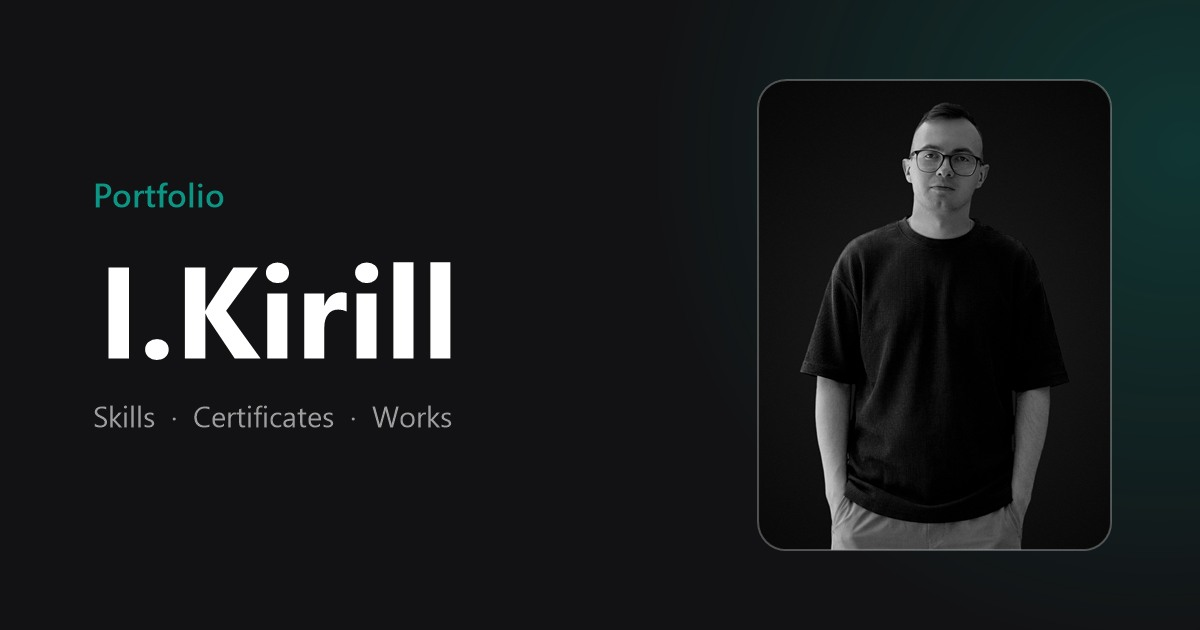
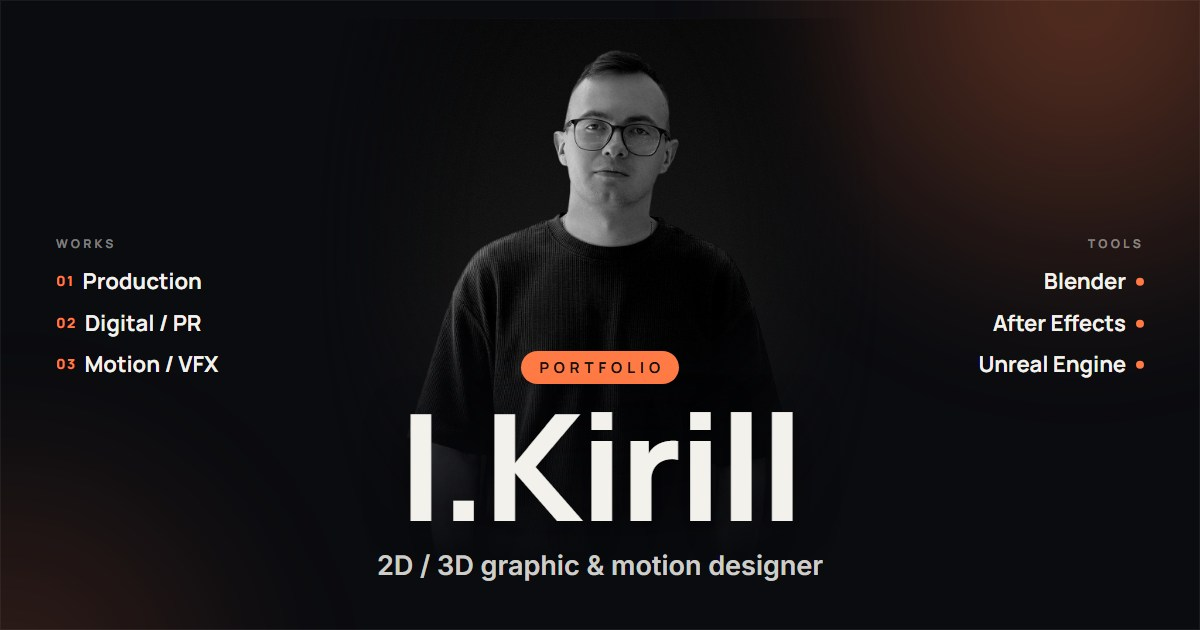
Redesign link preview image and fix duplicated preview title
- New og-image.jpg (1200x630, 67 KB) in the site palette: photo, name and role sit in the centre square, so square crops (WhatsApp, iMessage, thumbnails) keep them; works and tools fill the sides for wide previews
- og:site_name is now "I.Kirill" and og:title describes the role, so Telegram no longer shows the same title twice
- Updated descriptions, added og:image:type, and a ?v=2 query on the image URL so platforms fetch the new image

diff --git a/index.html b/index.html
@@ -4,7 +4,7 @@
     <meta charset="UTF-8" />
     <meta name="viewport" content="width=device-width, initial-scale=1.0" />
     <title>I.Kirill — Portfolio</title>
-    <meta name="description" content="Portfolio of Kirill Ivannikov (I.Kirill): skills, certificates and selected works in digital design, video, 3D and AI-assisted workflows." />
+    <meta name="description" content="Kirill Ivannikov (I.Kirill) — 2D / 3D graphic &amp; motion designer. Production, Digital / PR and Motion / VFX works: commercials, animation, 3D modeling and VFX." />
     <meta name="theme-color" content="#0b0c10" />
     <link rel="preconnect" href="https://fonts.googleapis.com" />
     <link rel="preconnect" href="https://fonts.gstatic.com" crossorigin />
@@ -13,19 +13,20 @@
     <link rel="canonical" href="https://kll7a.github.io/portfolio/" />
 
     <meta property="og:type" content="website" />
-    <meta property="og:site_name" content="I.Kirill — Portfolio" />
-    <meta property="og:title" content="I.Kirill — Portfolio" />
-    <meta property="og:description" content="Skills, certificates and selected works of Kirill Ivannikov: digital design, video, 3D and AI-assisted workflows." />
+    <meta property="og:site_name" content="I.Kirill" />
+    <meta property="og:title" content="Portfolio — 2D / 3D graphic &amp; motion designer" />
+    <meta property="og:description" content="Production, Digital / PR and Motion / VFX: commercials, 2D / 3D animation, 3D modeling and VFX." />
     <meta property="og:url" content="https://kll7a.github.io/portfolio/" />
-    <meta property="og:image" content="https://kll7a.github.io/portfolio/og-image.jpg" />
+    <meta property="og:image" content="https://kll7a.github.io/portfolio/og-image.jpg?v=2" />
+    <meta property="og:image:type" content="image/jpeg" />
     <meta property="og:image:width" content="1200" />
     <meta property="og:image:height" content="630" />
-    <meta property="og:image:alt" content="I.Kirill — Portfolio" />
+    <meta property="og:image:alt" content="I.Kirill — 2D / 3D graphic &amp; motion designer" />
 
     <meta name="twitter:card" content="summary_large_image" />
-    <meta name="twitter:title" content="I.Kirill — Portfolio" />
-    <meta name="twitter:description" content="Skills, certificates and selected works of Kirill Ivannikov." />
-    <meta name="twitter:image" content="https://kll7a.github.io/portfolio/og-image.jpg" />
+    <meta name="twitter:title" content="I.Kirill — 2D / 3D graphic &amp; motion designer" />
+    <meta name="twitter:description" content="Production, Digital / PR and Motion / VFX: commercials, 2D / 3D animation, 3D modeling and VFX." />
+    <meta name="twitter:image" content="https://kll7a.github.io/portfolio/og-image.jpg?v=2" />
   </head>
   <body>
     <div id="root"></div>
